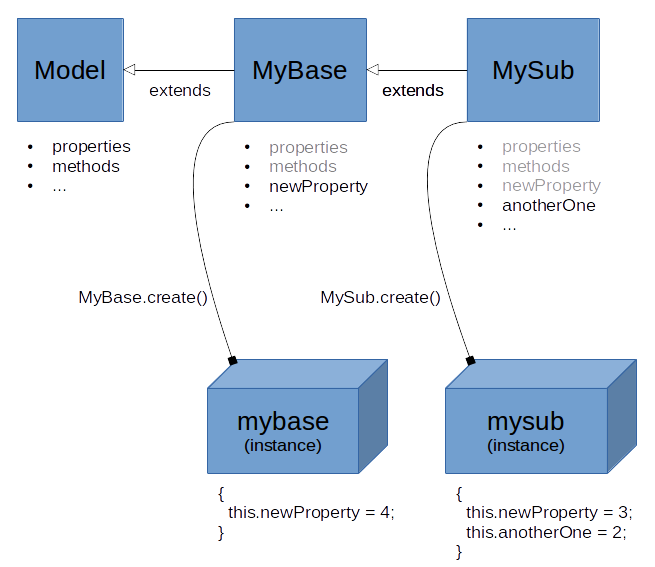
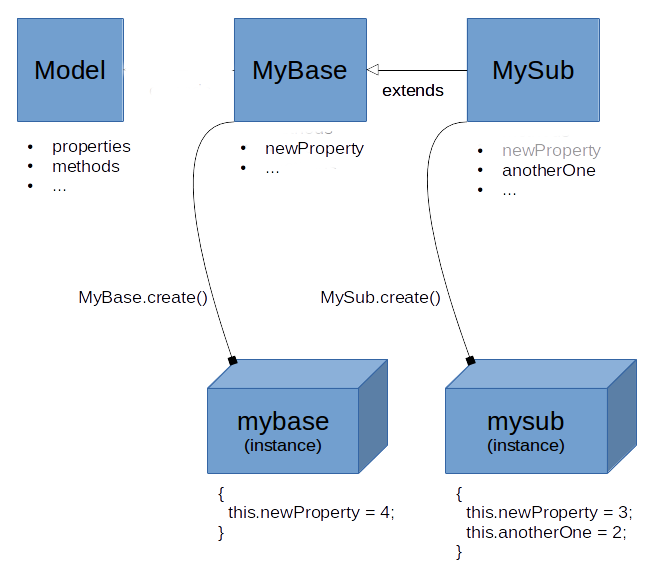
Fixed Model.extendsModel docs and diagrams.

diff --git a/apps/docs/developerDocs.js b/apps/docs/developerDocs.js
@@ -23,6 +23,8 @@ MODEL({
   plural: 'DocumentationBooks',
   help: 'A documentation object that exists outside of a specific model.',
 
+	// package: 'developerDocs',
+
   documentation: function() {/*
     <p>To create a body of documentation for general reference (a topic not
     connected to a specific model), create a model that extends $$DOC{ref:'.'}.
@@ -40,6 +42,8 @@ MODEL({
   extendsModel: 'DocumentationBook',
   label: 'Welcome to FOAM',
   help: 'Welcome to FOAM',
+
+	// package: 'developerDocs',
 
   documentation: {
     label: "Welcome to FOAM",
@@ -112,7 +116,7 @@ MODEL({
           itself is an instance of $$DOC{ref:'Model'}.</p>
           <p>For instance:
           <ul>
-            <li>$$DOC{ref:'Property'} has a $$DOC{ref:'Property.name'} like everything else,
+            <li>$$DOC{ref:'Property'} has a $$DOC{ref:'Property.name'} as one would expect,
             but also $$DOC{ref:'Property.hidden'} and $$DOC{ref:'Property.view'} properties
             to indicate how it should be displayed.</li>
             <li>$$DOC{ref:'Method'} has $$DOC{ref:'Method.code'} as one might expect, but also
@@ -131,7 +135,8 @@ MODEL({
           from the developer.</p>
           <p>Since each part of a $$DOC{ref:'Model'} is itself a $$DOC{ref:'Model'},
           $$DOC{ref:'Model'} definitions themselves are easy to store in a $$DOC{ref:'DAO'}
-          and pull in features as they need them. This enables dynamic loading, or
+          and pull in features as they need them. This enables dynamic loading (if your
+					chosen language supports it, like Javascript), or
           providing features and code to the client based on run-time decisions.</p>
         */}
       },
@@ -145,8 +150,8 @@ MODEL({
           or <code>X.MyModelName</code>, and create an instance of it with
           <code>X.MyModelName.create({args})</code>. But what kind of object did you pull?</p>
           <p>When you declare a $$DOC{ref:'Model'}, inheritance follows your
-          $$DOC{ref:'Model.extendsModel'} choice until it hits $$DOC{ref:'Model'} or
-          you omit $$DOC{ref:'Model.extendsModel'} (which defaults to $$DOC{ref:'Model'}).
+          $$DOC{ref:'Model.extendsModel'} property down through the chain until
+          you omit $$DOC{ref:'Model.extendsModel'}.
           At each step, new $$DOC{ref:'Property',usePlural:true} or other features are
           added on, as one would expect from inheritance. When you examine the "MyBase"
           object from your context, you see all the inherited features. Calling create()
@@ -160,9 +165,10 @@ MODEL({
           <p>In FOAM, those $$DOC{ref:'Model'} definitions are actually instances of
           $$DOC{ref:'Model'}, including $$DOC{ref:'Model'} itself:</p>
           <p><img src='images/Model_runtime2.png'/></p>
-          <p>So not only are your $$DOC{ref:'Model',usePlural:true} inheriting from
-          $$DOC{ref:'Model'}, but they are instances of it too. Features are also
-          instantiated inside your $$DOC{ref:'Model',usePlural:true}. The $$DOC{ref:'Property',usePlural:true}
+          <p>So your $$DOC{ref:'Model',usePlural:true} are instances of $$DOC{ref:'Model'}.
+					Features are also
+          instantiated inside your $$DOC{ref:'Model',usePlural:true}. 
+					The $$DOC{ref:'Property',usePlural:true}
           are shown in the diagram above. When building instances of your $$DOC{ref:'Model'}
           the lists of inherited $$DOC{ref:'Property',usePlural:true} and other features
           are merged to form the complete list of features your instance is built with.</p>
@@ -187,6 +193,8 @@ MODEL({
   extendsModel: 'DocumentationBook',
   label: 'Context Documentation',
   help: 'Context Documentation',
+
+	// package: 'developerDocs',
 
   documentation: {
     label: "Contexts",
@@ -312,6 +320,8 @@ MODEL({
   label: 'Events and Binding Documentation',
   help: 'Events and Binding Documentation',
 
+	// package: 'developerDocs',
+
   documentation: {
     label: "The FOAM Event and Binding System",
 
@@ -420,6 +430,8 @@ MODEL({
   label: 'Views Documentation',
   help: 'Views Documentation',
 
+	// package: 'developerDocs',
+
   documentation: {
     label: "FOAM Views",
 
@@ -451,13 +463,15 @@ MODEL({
         body: function() {/*
           <p>$$DOC{ref:'Template',usePlural:true} provide a convenient way of
           expressing blocks of HTML in your $$DOC{ref:'View',usePlural:true}.
-
+				  $$DOC{ref:'Template',usePlural:true} are compiled into $$DOC{ref:'Method',usePlural:true}.
+					A $$DOC{ref:'View.toInnerHTML'} or $$DOC{ref:'View.toHTML'} $$DOC{ref:'Template'} is a
+					common use.
           </p>
           <p>Use the $$DOC{ref:'.',text:'$$'}propertyName{...} tag syntax to insert sub-views
           based on a $$DOC{ref:'Property'},
           or just call <code>&lt;%= this.mySubViewProperty.toHTML() %&gt;</code> to
           inject some HTML directly. Remember to call $$DOC{ref:'View.initHTML'}()
-          afterwards.</p>
+          afterwards.</p>	
         */}
       },
       {
@@ -470,7 +484,20 @@ MODEL({
           $$DOC{ref:'Property',usePlural:true} of the $$DOC{ref:'Model'} provided
           and display them.</p>
           <p>A $$DOC{ref:'PropertyView'} is created to process each $$DOC{ref:'Property'},
-          and it picks the appropriate $$DOC{ref:'View'} model.
+          and it picks the appropriate $$DOC{ref:'View'} model.</p>
+        */}
+      },
+      {
+        name: 'css',
+        label: 'CSS in Views',
+        model_: 'Documentation',
+        body: function() {/*
+          <p>You can attach CSS directly to your $$DOC{ref:'View'} by implementing the
+					$$DOC{ref:'View.CSS'}() $$DOC{ref:'Method'} or $$DOC{ref:'Template'}. When the view
+					is instantiated, the CSS is installed into the document, ready for rendering.
+					$$DOC{ref:'View',usePlural:true} can control their individual style attributes
+					by setting $$DOC{ref:'View.extraClassName'} inside a submodel, or at run time by
+					setting $$DOC{ref:'View.className'}.</p>
         */}
       }
 

diff --git a/apps/docs/subviews.js b/apps/docs/subviews.js
@@ -111,8 +111,7 @@ MODEL({
       <p>Stores inheritance information for a $$DOC{ref:'Model'}. One
       instance per extending $$DOC{ref:'Model'} is stored in the
       this.X.docModelViewFeatureDAO (starting with the data of
-      $$DOC{ref:'DocModelView'}, and following the .extendsModel chain
-      down to and including $$DOC{ref:'Model'}.
+      $$DOC{ref:'DocModelView'}, and following the .extendsModel chain.
       </p>
       <p>See $$DOC{ref:'DocModelView'}.
       </p>
@@ -122,7 +121,7 @@ MODEL({
     {
       name: 'inheritanceLevel',
       help: 'The inheritance level of model.',
-      documentation: "The inheritance level of $$DOC{ref:'.model'} (0 = $$DOC{ref:'Model'})",
+      documentation: "The inheritance level of $$DOC{ref:'.model'} (0 = root, no extendsModel specified)",
       defaultValue: 0
     },
     {
@@ -299,15 +298,14 @@ MODEL({
       });
 
       // Check if we extend something, or we are just Model (the base case)
-      if (model.id === 'Model') {
+      if (!model.extendsModel) {
         newModelTr.inheritanceLevel = 0;
       } else {
         // add the tracker we're building to the list, for updates from our base models
         previousExtenderTrackers.push(newModelTr);
         // inheritance level will bubble back up the stack once we know where the bottom is
-        var extend = model.extendsModel? model.extendsModel : 'Model';
         newModelTr.inheritanceLevel = 1 + this.loadFeaturesOfModel(
-                          this.X[extend], previousExtenderTrackers);
+                          this.X[model.extendsModel], previousExtenderTrackers);
       }
 
       // the tracker is now complete
@@ -335,8 +333,6 @@ MODEL({
           <h1><%=this.data.name%></h1>
 <%        if (this.data.extendsModel) { %>
             <h2>Extends $$DOC{ref: this.data.extendsModel }</h2>
-<%        } else { %>
-            <h2>Extends $$DOC{ref: 'Model' }</h2>
 <%        } %>
 <%        if (this.data.model_ && this.data.model_.id && this.data.model_.id != "Model") { %>
             <h2>Implements $$DOC{ref: this.data.model_.id }</h2>
@@ -666,25 +662,6 @@ MODEL({
       */}
     },
     {
-      name: 'resolvedName',
-      dynamicValue: function() {
-        var fullname = "";
-        newResolvedModelChain.forEach(function(m) {
-          if (m.name)
-            fullname.concat(m.name);
-          else if (m.id)
-            fullname.concat(m.id);
-        });
-        return fullname;
-      },
-      documentation: function() { /*
-        The rebuilt version of $$DOC{ref:'.ref'}, by asking each part of the
-        $$DOC{ref:'.resolvedModelChain'} for its name or id. This may not correspond
-        to the actual value of $$DOC{ref:'.ref'} and can be used for debugging
-        if reference resolution is not behaving as expected.
-      */}
-    },
-    {
       name: 'ref',
       help: 'The reference to link. Must be of the form "Model", "Model.feature", or ".feature"',
       postSet: function() {
@@ -717,6 +694,22 @@ MODEL({
       // Revisit when we can cause a removeListener at the appropriate time.
         //        this.X.documentViewParentModel.addListener(this.onParentModelChanged);
       }
+    },
+    resolvedName: function() {
+			/*
+        The rebuilt version of $$DOC{ref:'.ref'}, by asking each part of the
+        $$DOC{ref:'.resolvedModelChain'} for its name or id. This may not correspond
+        to the actual value of $$DOC{ref:'.ref'} and can be used for debugging
+        if reference resolution is not behaving as expected.
+			*/
+      var fullname = "";
+      this.resolvedModelChain.forEach(function(m) {
+        if (m.name)
+          fullname.concat(m.name);
+        else if (m.id)
+          fullname.concat(m.id);
+      });
+      return fullname;
     },
 
     resolveReference: function(reference) {
@@ -752,13 +745,19 @@ MODEL({
         }
         model = this.X.documentViewParentModel.get(); // ".feature" or "."
       } else {
+				// resolve path and model
         model = this.X[args[0]];
+				while (args.length > 0 && model && !model.model_) { // if no .model_, it's a package
+					args = args.slice(1); // remove package part
+	        model = this.X[args[0]];
+				};
       }
+			//TODO: do something with the package parts, resolve package refs with no model
 
       if (!model) {
         return;
       }
-
+			
       newResolvedModelChain.push(model);
 
       // Check for a feature, and check inherited features too

diff --git a/core/mm1Model.js b/core/mm1Model.js
@@ -59,7 +59,7 @@ var Model = {
     body: function() { /*
       <p>In FOAM, $$DOC{ref:'Model'} is the basic unit for describing data and behavior.
       $$DOC{ref:'Model'} itself is a $$DOC{ref:'Model'}, since it defines what can be defined,
-      but does so within the rules it is defining.</p>
+      but also defines itself.</p>
 
       <p>In javascript code, <code>YourModel.create(...)</code> creates an instance of
       your model. This is context dependent, so generally you will be calling
@@ -69,14 +69,11 @@ var Model = {
 
       <p>Note:
       <ul>
-        <li>Your own models will extend $$DOC{ref:'Model'}, or extend
-        a model that extends $$DOC{ref:'Model'}.</li>
-
         <li>The definition of your model is a $$DOC{ref:'Model'} instance
         (with YourModel.model_ === Model), while instances
         of your model have your new type (myInstance.model_ === YourModel). This
         differs from other object-oriented systems where the definition of a class
-        and instances of the class are completely separate entities. In FOAM everything
+        and instances of the class are completely separate entities. In FOAM every class definition
         is a $$DOC{ref:'Model'}, including itself.</li>
 
         <li>Creating a subcontext and replacing X.YourModel with a different model (such as

diff --git a/core/BootstrapModel.js b/core/BootstrapModel.js
@@ -106,7 +106,7 @@ var BootstrapModel = {
 
       return GLOBAL[name];
     }
-
+		
     if ( this.extendsModel && ! GLOBAL[this.extendsModel] ) throw 'Unknown Model in extendsModel: ' + this.extendsModel;
 
     var extendsModel = this.extendsModel && GLOBAL[this.extendsModel];

diff --git a/apps/docs/docbrowser.css b/apps/docs/docbrowser.css
@@ -9,7 +9,9 @@ p {
 li {
   padding-bottom: 0.5em;
 }
-
+h1 {
+	padding-bottom: 0.5em;
+}
 
 
 div.contentPanes {
